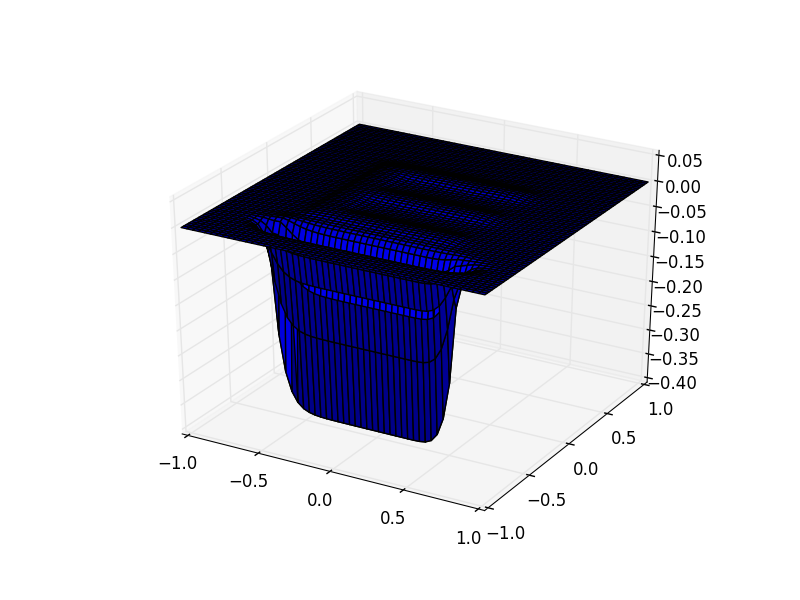
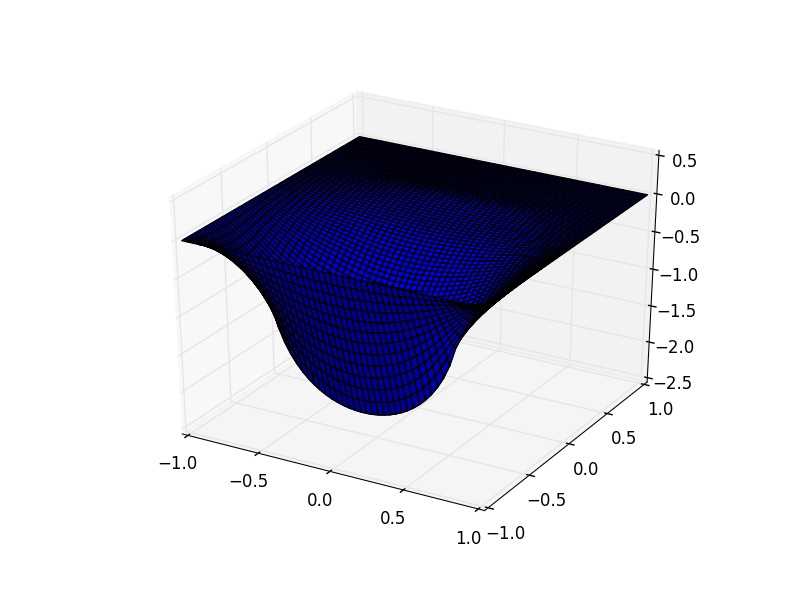
cambios menores

Changed region(s): [[0.2188, 0.21, 0.875, 0.75]]

diff --git a/tarea5.py b/tarea5.py
@@ -7,11 +7,9 @@ densidad=1/19.
 h=0.2 #paso, en centímetros
 L_x=10 #ancho de la grilla, está en centímetros
 L_y=15 #alto de la grilla, está en centímetros
-Steps_x=int((L_x/h)+1)
-Steps_y=int((L_y/h)+1)
-
-def show(phi):
-    print(phi[::-1, :])
+Steps_x=int((L_x/h)+1) #número de pasos en X
+Steps_y=int((L_y/h)+1) #número de pasos en Y
+omega=1.2
 
 def rho(i, j, h):
     x=i*h-(L_x/2.) #los x e y están en centímetros, el origen está en el centro de la grilla
@@ -22,14 +20,14 @@ def rho(i, j, h):
         return densidad
     elif (x>=-2.5 and x<=2.5) and (y>=2.5 and y<=3.5): #palito de arriba de la E
         return densidad
-    elif (x>=-2.5 and x<=-1.5) and (y>=-2.5 and y<=-0.5): #segmento entre palito de abajo y el de al medio
+    elif (x>=-2.5 and x<=-1.5) and (y>=-2.5 and y<=-0.5): #segmento entre palito de abajo y el del medio
         return densidad
     elif (x>=-2.5 and x<=-1.5) and (y>=0.5 and y<=2.5): #segmento entre palito del medio y el de arriba
         return densidad
     else:
         return 0
 
-def una_iteracion(v,v_next,Steps_x,Steps_y,h,w=1.): #aquí hay que separar para 3 casos: borde, línea y el resto
+def una_iteracion(v,v_next,Steps_x,Steps_y,h,w=omega): #aquí hay que separar para 2 casos: la línea que es C.B. y el resto
     for i in range(1,Steps_x-1):
         for j in range(1,12): #abajo de la línea
             v_next[i,j]=((1-w)*v[i,j]+(w/4.)*(v[i+1,j]+v_next[i-1,j]+v[i,j+1]+v_next[i,j-1]+h**2*rho(i,j,h)))
@@ -46,29 +44,40 @@ def una_iteracion(v,v_next,Steps_x,Steps_y,h,w=1.): #aquí hay que separar para 
         for j in range(13,14): #justo sobre la línea, donde aplica la condición +1
             v_next[i,j]=((1-w)*v[i,j]+(w/3.)*(v[i+1,j]+v_next[i-1,j]+v_next[i,j-1]+h**2*rho(i,j,h)+h))
 
-V=np.zeros((Steps_x,Steps_y))
+def no_ha_convergido(v,v_next,tol=1e-4):
+    not_zero=(v_next!=0)
+    diff_relativa=(v-v_next)[not_zero]/v_next[not_zero]
+    max_diff=np.max(np.fabs(diff_relativa))
+    if max_diff>tol:
+        return True
+    else:
+        return False
+
+V=np.zeros((Steps_x,Steps_y)) #genero grillas llenas con ceros, esto me da por garantizado que en el borde V=0
 V_next=np.zeros((Steps_x,Steps_y))
 
-una_iteracion(V,V_next,Steps_x,Steps_y,h,w=1.)
+una_iteracion(V,V_next,Steps_x,Steps_y,h,w=omega)
 counter=1
-while counter<10:
+while counter<1000 and no_ha_convergido(V,V_next,tol=1e-4):
     V=V_next.copy()
-    una_iteracion(V,V_next,Steps_x,Steps_y,h,w=0.8)
-    counter+= 1
-Vnext_alverre=V_next.transpose()
+    una_iteracion(V,V_next,Steps_x,Steps_y,h,w=omega)
+    counter+=1
+print("counter={}".format(counter))
+V_trans=V_next.transpose()
+
 fig=plt.figure(1)
 fig.clf()
 ax=fig.add_subplot(111,projection='3d')
 x=np.linspace(-1,1,Steps_x)
 y=np.linspace(-1,1,Steps_y)
 X,Y=np.meshgrid(x,y)
-ax.plot_surface(X,Y,Vnext_alverre,rstride=1,cstride=1)
-fig.show()
+ax.plot_surface(X,Y,V_trans,rstride=1,cstride=1)
 plt.savefig('plot_surface.png')
+fig.show()
 
 fig2=plt.figure(2)
 fig2.clf()
 ax2=fig2.add_subplot(111)
-ax2.imshow(Vnext_alverre,origin='bottom',interpolation='nearest')
-fig2.show()
+ax2.imshow(V_trans,origin='bottom',interpolation='nearest')
 plt.savefig('plot_imshow.png')
+fig2.show()
